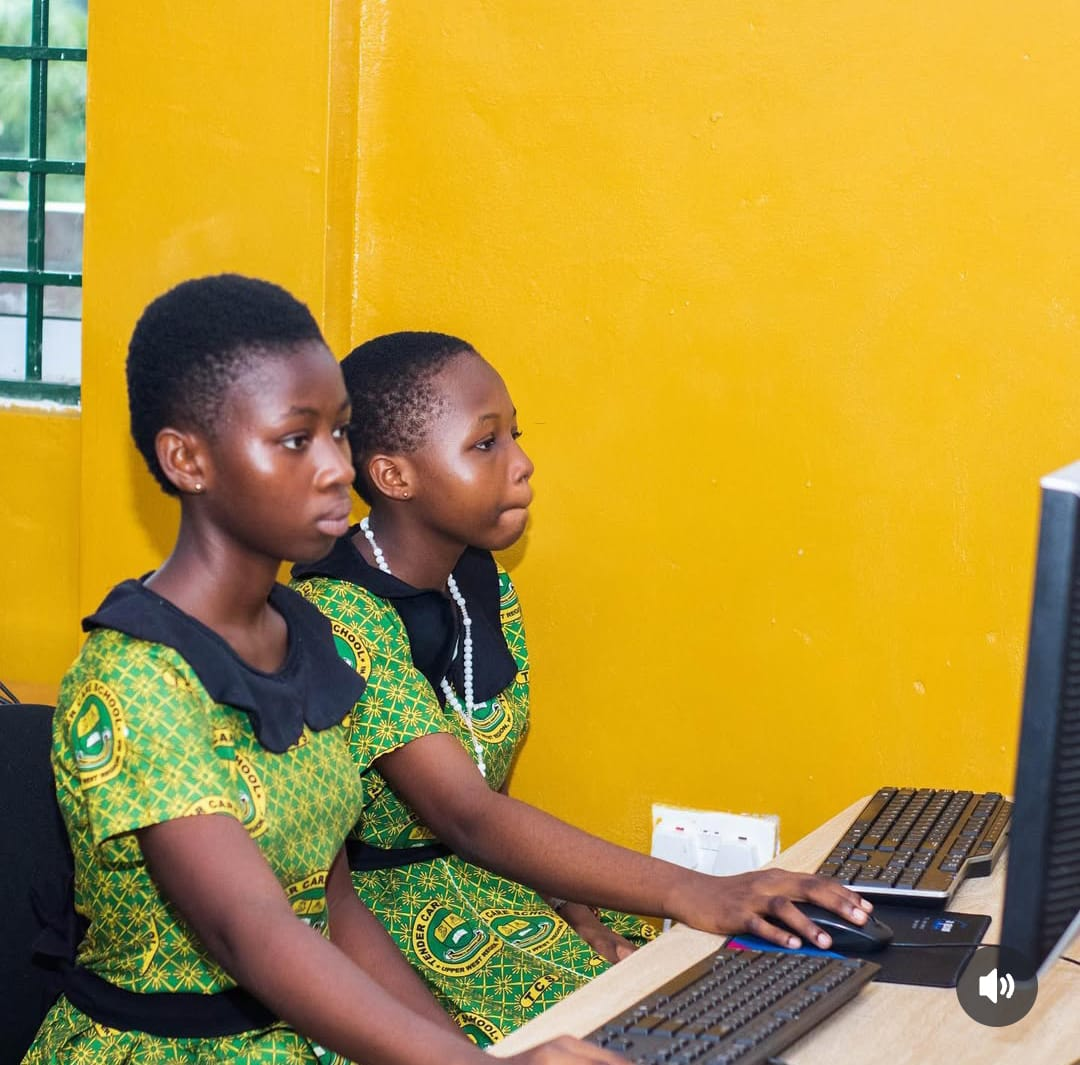
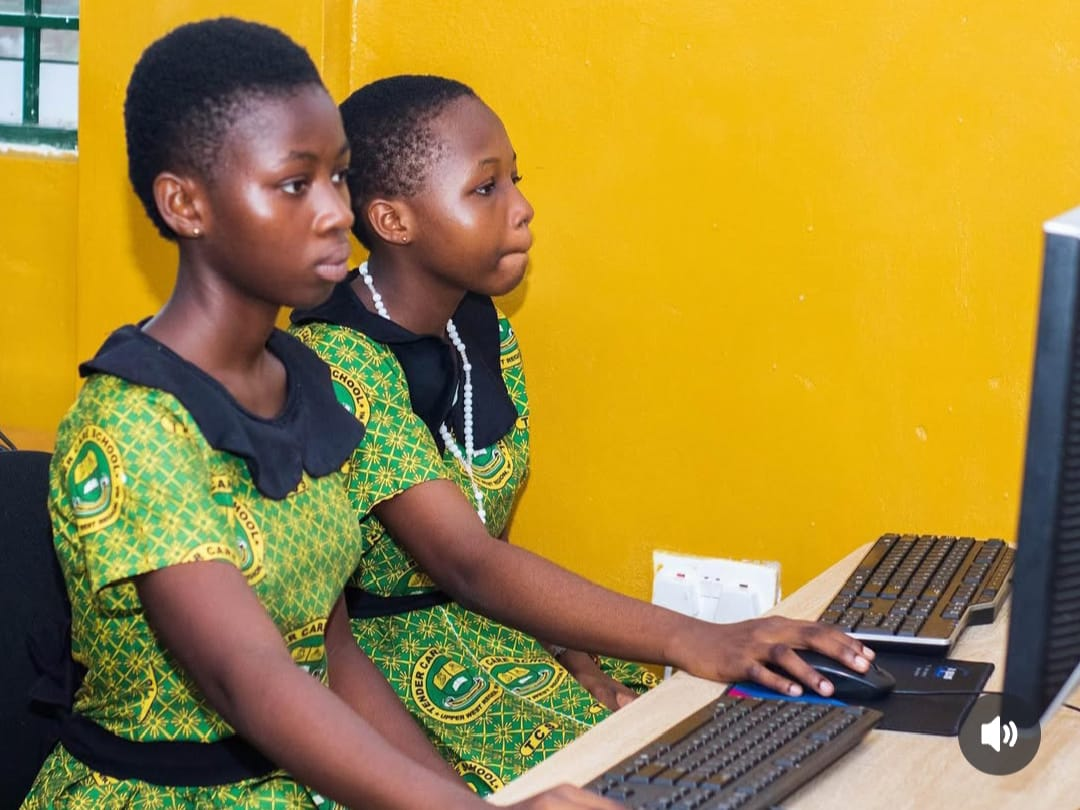
Reverted some changes

diff --git a/frontend/src/components/DonationPage.css b/frontend/src/components/DonationPage.css
@@ -30,10 +30,8 @@
 
 .donation-header-image {
   width: 90%;
-  max-width: 400px; /* Reduced from 900px to better suit portrait */
-  height: auto; /* Changed from fixed 300px to auto */
-  max-height: 600px; /* Added max-height for very tall images */
-  aspect-ratio: 2/3; /* Maintains portrait aspect ratio */
+  max-width: 900px;
+  height: 300px;
   border-radius: 8px;
   overflow: hidden;
   margin: 0 auto 30px;
@@ -54,10 +52,11 @@
 .donation-header-image .header-image {
   width: 100%;
   height: 100%;
-  object-fit: contain; /* Changed from 'cover' to 'contain' */
-  object-position: center center; /* Changed from 'center top' */
+  object-fit: cover;
+  object-position: center top;
   display: block;
 }
+
 /* Header section styles */
 .donation-header {
   text-align: center;
